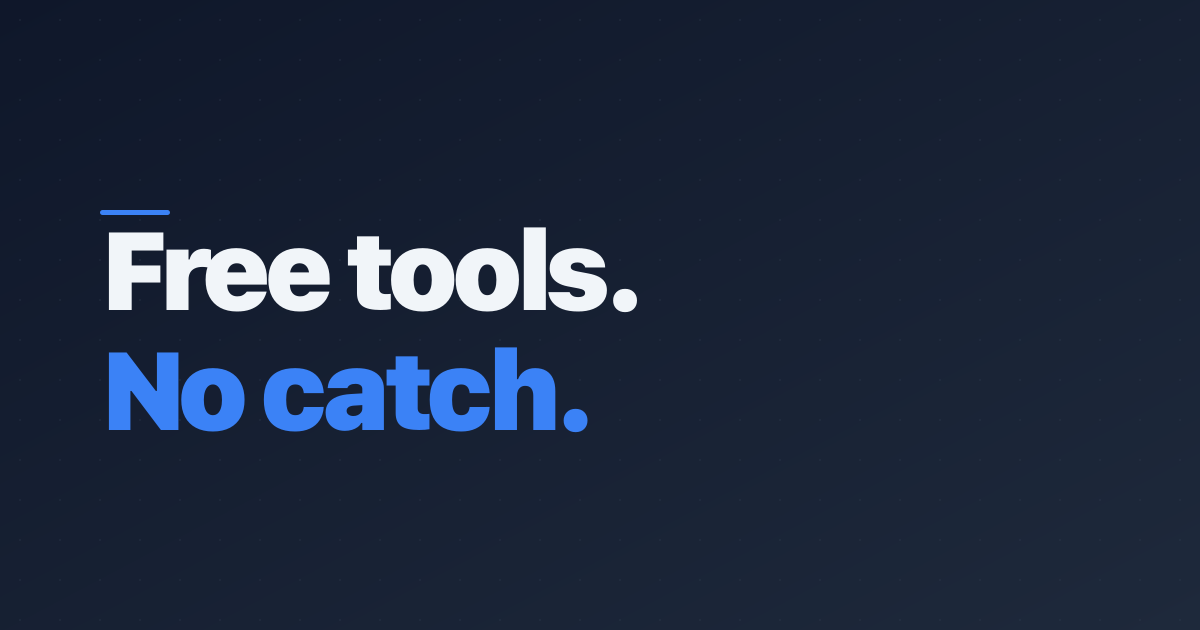
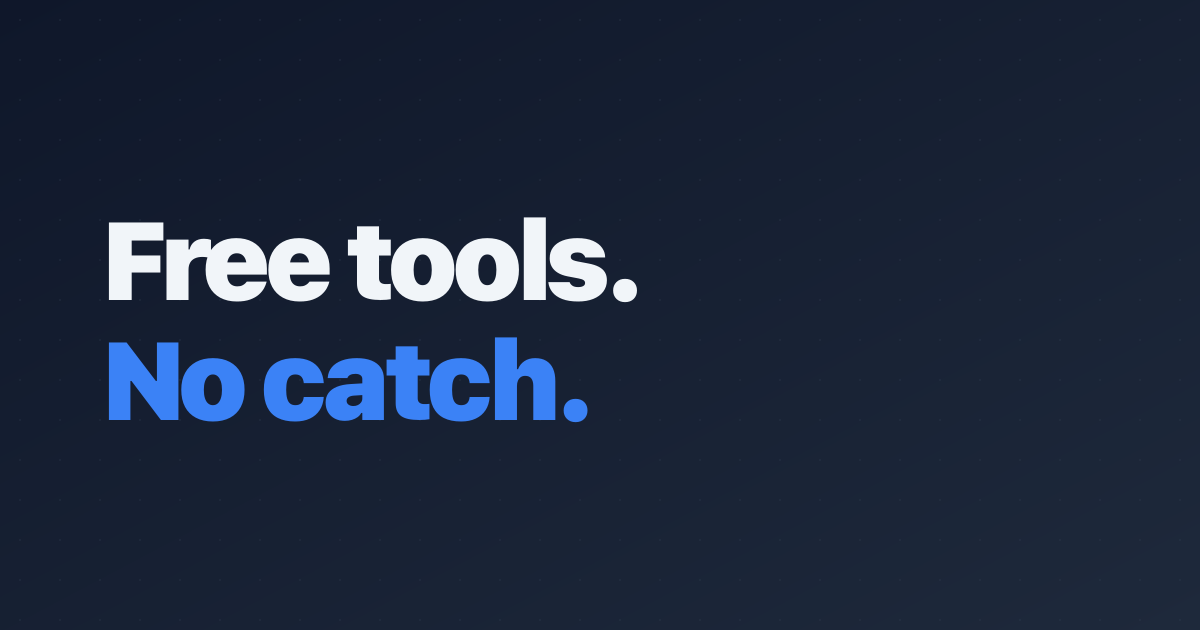
Fix MCP SDK build and remove accent line from OG image
- Add ssr.noExternal for @modelcontextprotocol/sdk so Vite bundles it
  instead of trying to resolve wildcard package exports at build time
- Remove decorative accent line from OG image (looked like a stray mark at thumbnail size)

Changed region(s): [[0.0925, 0.3317, 0.555, 0.6937], [0.4317, 0.3317, 0.4625, 0.3619]]

diff --git a/vite.config.ts b/vite.config.ts
@@ -4,6 +4,9 @@ import { defineConfig } from 'vite';
 
 export default defineConfig({
 	plugins: [tailwindcss(), sveltekit()],
+	ssr: {
+		noExternal: ['@modelcontextprotocol/sdk']
+	},
 	optimizeDeps: {
 		exclude: [
 			'onnxruntime-web',
